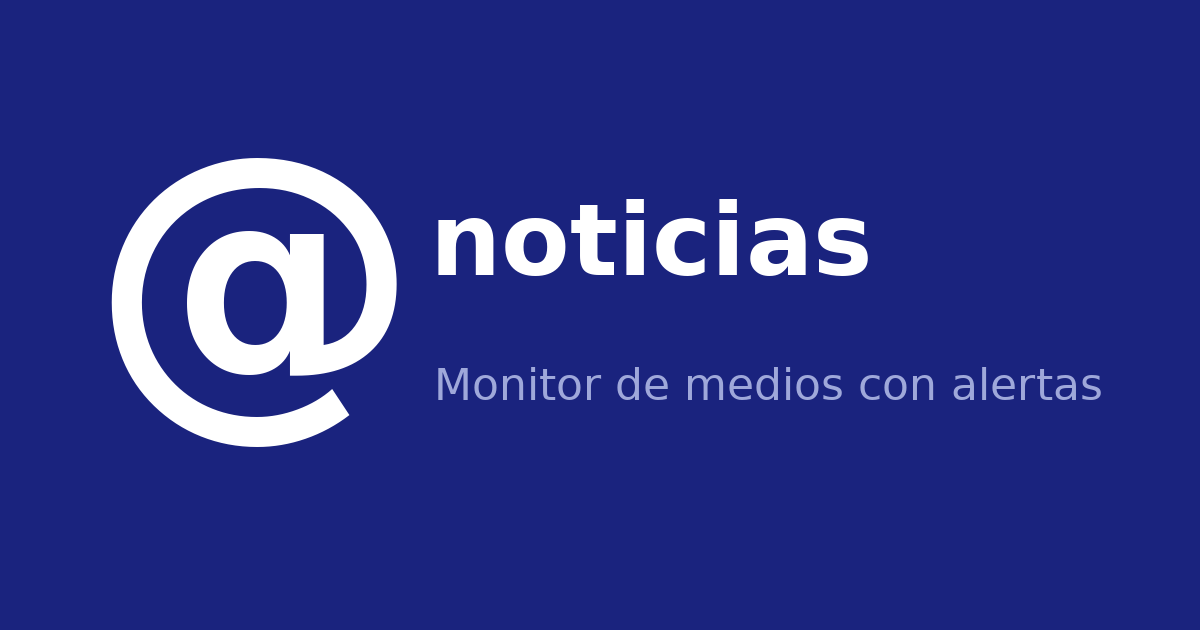
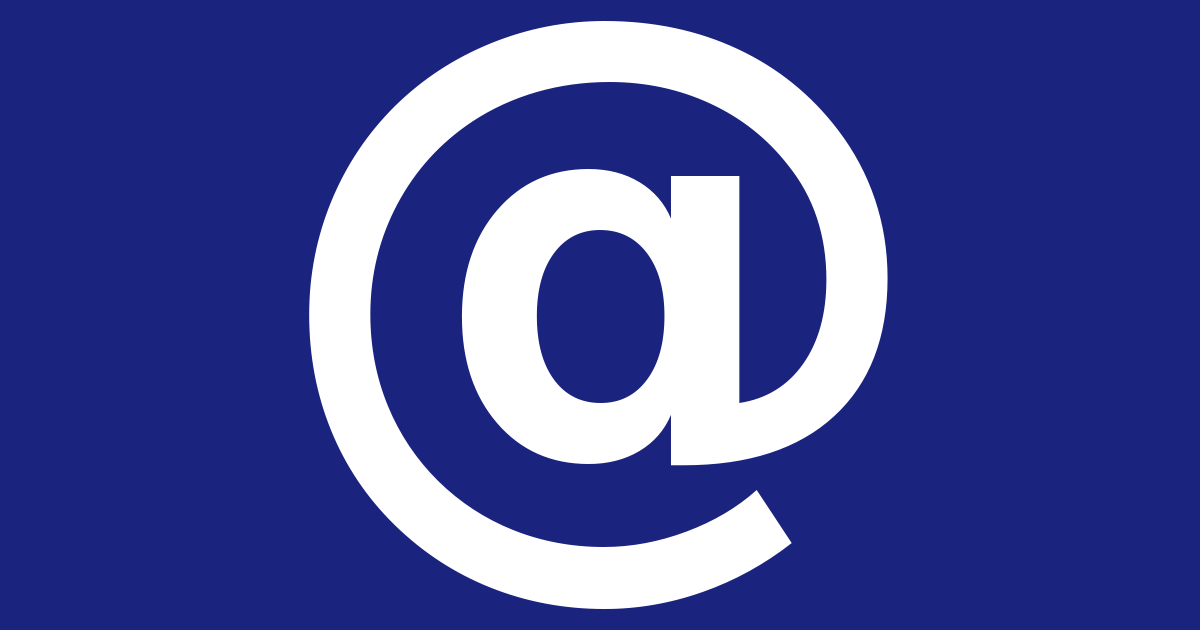
¨rasz4¨

Changed region(s): [[0.0925, 0.0302, 0.925, 0.9651]]

diff --git a/monitor.py b/monitor.py
@@ -44,7 +44,7 @@ CONFIG = BASE / "config.json"
 USUARIOS = BASE / "usuarios.json"    # reglas + fuentes ocultas + expira, por email
 ACTIVIDAD = BASE / "actividad.jsonl"  # {ts, email, ruta} por cada página vista
 SECRET = BASE / "secret.txt"    # llave HMAC para firmar cookies de sesión
-OG_PNG = BASE / "brand" / "02port.jpg"  # tarjeta de preview para compartir links
+OG_PNG = BASE / "og.png"  # tarjeta de preview para compartir links (@ gigante)
 RL_AUTO_FILE = BASE / "rl_auto.json"  # IPs con login exitoso
 _RL_HITS: dict = {}
 _RL_SKIP_IPS: set = set()
